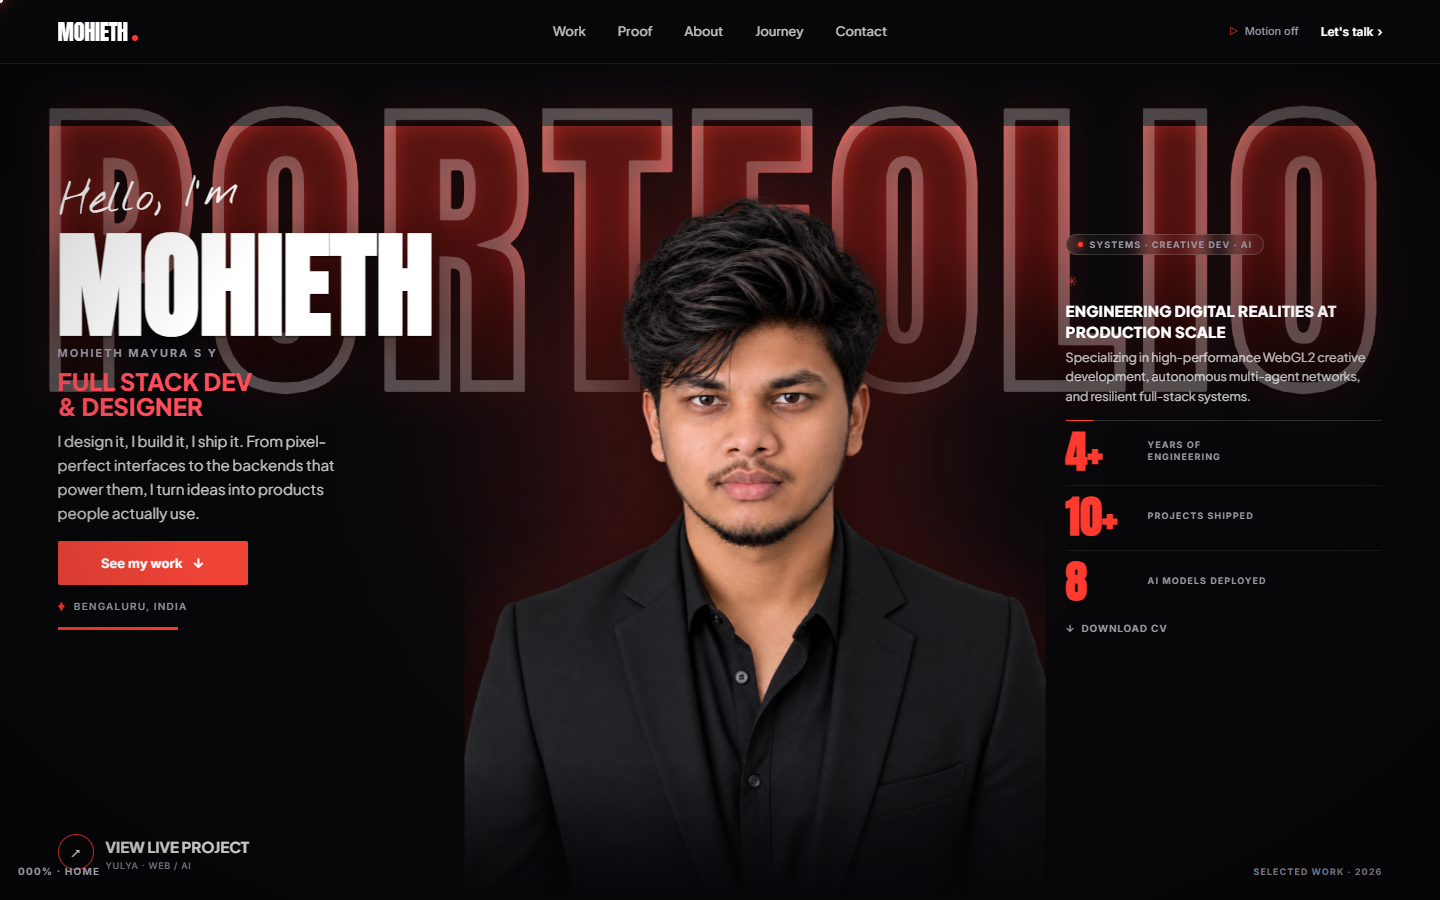
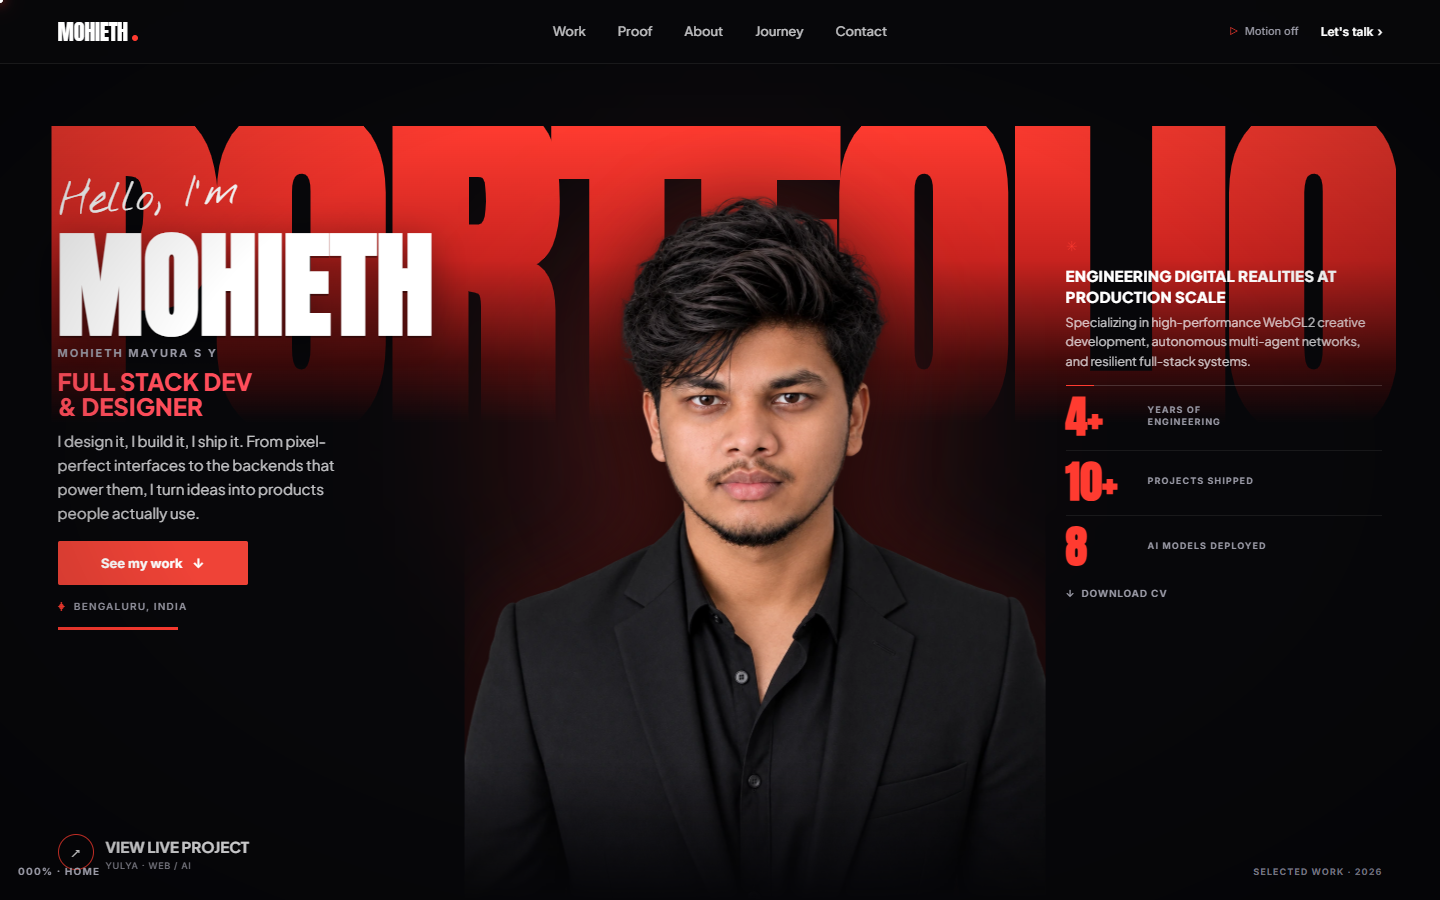
fix: restore classic gradient PORTFOLIO wordmark, remove hero badge, and fix swarm camera framing

Changed region(s): [[0.0312, 0.0933, 0.9688, 0.7156]]

diff --git a/js/swarm.js b/js/swarm.js
@@ -124,6 +124,13 @@
   const isOff = (v) => v.x > innerWidth + 4 || v.x + v.w < -4 || v.y > innerHeight + 260 || v.y + v.h < -260;
 
   const secName = (el) => { const s = el.closest('[data-swarm-section]'); return s ? s.dataset.swarmSection : 'page'; };
+  function getActiveSection() {
+    for (const [name, s] of S.sections.entries()) {
+      if (name === 'nav') continue;
+      if (s.built < s.total) return s;
+    }
+    return null;
+  }
   function collect() {
     const out = []; let i = 0;
     S.sections = new Map();
@@ -151,13 +158,14 @@
   }
   const remeasureFree = () => { for (const L of S.layers) if (!L.claimed) measure(L); };
 
-  /* next layer for an agent: reading order inside visible window, requiring >=3 cursors before advancing down */
+  /* next layer for an agent: prioritize active section and visible viewport, advancing section by section */
   function claim(a) {
     const L0 = S.layers, n = L0.length;
     while (S.firstFree < n && L0[S.firstFree].claimed) S.firstFree++;
     if (S.firstFree >= n) return null;
-    const lo = scrollY - 90, hi = scrollY + innerHeight + 60;
-    const focusLimit = scrollY + innerHeight * 0.74;
+    const curSec = getActiveSection();
+    const lo = scrollY - 90, hi = scrollY + innerHeight + 120;
+    const focusLimit = scrollY + innerHeight * 0.82;
 
     let best = null, bestScore = 1e12, seen = 0;
     let localBest = null, localScore = 1e12;
@@ -165,13 +173,15 @@
     for (let k = S.firstFree; k < n && seen < 44; k++) {
       const L = L0[k]; if (L.claimed) continue;
       const top = L.fixed ? scrollY + L.y : L.y;
-      if (top > hi) break; // never claim offscreen layers: wait for camera to arrive
+      if (top > hi && (!curSec || L.section !== curSec.name)) break;
       seen++;
       const v = vr(L);
       const dist = Math.hypot(v.x - a.x, v.y - a.y);
-      const score = (top - lo) * 1 + dist * 0.32 + L.k * 0.01;
+      const inSec = curSec && L.section === curSec.name;
+      // Strong preference for layers in the active section so the entire section builds together
+      const score = (top - lo) * 1 + dist * 0.32 + L.k * 0.01 - (inSec ? 600 : 0);
 
-      if (L.fixed || top <= focusLimit) {
+      if (L.fixed || top <= focusLimit || inSec) {
         if (score < localScore) {
           localScore = score;
           localBest = L;
@@ -183,7 +193,7 @@
       }
     }
 
-    // 1. If an unclaimed layer exists in the current viewport focus, claim it immediately (no waiting)
+    // 1. If an unclaimed layer exists in the current section or viewport focus, claim it immediately
     if (localBest) {
       if (S.downWaiting) S.downWaiting.delete(a.id);
       a.waitStart = 0;
@@ -192,38 +202,9 @@
       return localBest;
     }
 
-    // 2. If all layers in current focus are claimed, candidate layer is down below
+    // 2. If all layers in active section/focus are claimed, allow claiming forward
     if (best) {
-      const activeAbove = S.agents.filter((other) =>
-        other !== a &&
-        other.layer &&
-        !other.layer.done &&
-        !other.layer.fixed &&
-        other.layer.y <= focusLimit
-      );
-
-      // If other cursors are still working at the top / current view:
-      if (activeAbove.length > 0) {
-        if (!S.downWaiting) S.downWaiting = new Set();
-        S.downWaiting.add(a.id);
-
-        const needed = Math.min(3, activeAbove.length + S.downWaiting.size);
-        const starving = a.waitStart && (S.t - a.waitStart > 1600);
-        const gateOpen = S.downGateUntil && S.downGateUntil >= S.t;
-
-        if (S.downWaiting.size < needed && !starving && !gateOpen) {
-          // Wait for at least 3 cursors to finish before moving down together
-          if (!a.waitStart) a.waitStart = S.t;
-          return null;
-        }
-
-        // 3+ cursors ready to move down! Open the gate for companion cursors
-        S.downGateUntil = S.t + 1100;
-        S.downWaiting.delete(a.id);
-      } else {
-        if (S.downWaiting) S.downWaiting.delete(a.id);
-      }
-
+      if (S.downWaiting) S.downWaiting.delete(a.id);
       a.waitStart = 0;
       best.claimed = true;
       S.lastClaim = S.t;
@@ -581,26 +562,48 @@
     if (S.stop) return; let target = null;
     if (S.tourOverride) target = S.tourOverride();
     else if (S.tour && !S.userScrolled) {
-      // Coordinate camera with the advancing cluster of >=3 cursors
-      const active = S.agents.filter((a) => a.layer && !a.layer.fixed);
-      if (active.length >= 3) {
-        const ys = active.map((a) => a.layer.y).sort((p, q) => p - q);
-        const thirdY = ys[ys.length - 3];
-        target = thirdY <= innerHeight * 0.82 ? 0 : Math.max(0, thirdY - innerHeight * 0.34);
-      } else if (active.length > 0) {
-        const ys = active.map((a) => a.layer.y).sort((p, q) => p - q);
-        target = ys[0] <= innerHeight * 0.82 ? 0 : Math.max(0, ys[0] - innerHeight * 0.34);
+      const hero = S.sections.get('hero');
+      // 1. Keep camera strictly anchored at top while Hero is being built
+      if (hero && hero.built < hero.total) {
+        target = 0;
       } else {
-        let k = S.firstFree;
-        while (k < S.layers.length && S.layers[k].fixed) k++;
-        const L = S.layers[k] || S.layers[S.firstFree];
-        if (L) target = (L.fixed || L.y <= innerHeight * 0.82) ? 0 : Math.max(0, L.y - innerHeight * 0.34);
+        const curSec = getActiveSection();
+        if (!curSec || !curSec.el) {
+          target = document.documentElement.scrollHeight - innerHeight;
+        } else {
+          const r = curSec.el.getBoundingClientRect();
+          const secTop = r.top + scrollY;
+          const secH = curSec.el.offsetHeight || r.height;
+          const secBottom = secTop + secH;
+          const baseTarget = Math.max(0, secTop - 64);
+
+          // If the section fits within viewport, frame it cleanly from its top
+          if (secH <= innerHeight - 50) {
+            target = baseTarget;
+          } else {
+            // Tall section: check cluster position of active cursors in this section
+            const activeInSec = S.agents.filter((a) => a.layer && !a.layer.fixed && a.layer.section === curSec.name);
+            if (activeInSec.length >= 2) {
+              const ys = activeInSec.map((a) => a.layer.y).sort((p, q) => p - q);
+              const curY = ys[Math.min(ys.length - 1, 2)];
+              // Only scroll down when cursors pass 70% of viewport, keeping built content filling the screen
+              if (curY > baseTarget + innerHeight * 0.70) {
+                const maxSecScroll = Math.max(baseTarget, secBottom - innerHeight + 24);
+                target = clamp(curY - innerHeight * 0.70, baseTarget, maxSecScroll);
+              } else {
+                target = baseTarget;
+              }
+            } else {
+              target = baseTarget;
+            }
+          }
+        }
       }
     }
     if (target == null) return;
     const max = document.documentElement.scrollHeight - innerHeight; target = clamp(target, 0, Math.max(0, max));
     const d = target - scrollY; if (Math.abs(d) < 0.6) return;
-    const step = clamp(d * (1 - Math.exp(-dt / 520)), -0.85 * dt, 0.85 * dt); window.scrollTo(0, scrollY + step);
+    const step = clamp(d * (1 - Math.exp(-dt / 480)), -0.85 * dt, 0.85 * dt); window.scrollTo(0, scrollY + step);
   }
 
   function orbitStep(dt) {

diff --git a/css/layout.css b/css/layout.css
@@ -141,18 +141,16 @@
   left: 3vw;
   top: 14%;
   font-family: var(--f-display);
-  font-size: clamp(80px, 24vw, 360px);
+  font-size: clamp(75px, 21vw, 315px);
   text-transform: uppercase;
   line-height: .8;
-  letter-spacing: 0.05em;
+  letter-spacing: -0.02em;
   white-space: nowrap;
   z-index: var(--z-hero-word, 1);
   background: linear-gradient(180deg, #ff3b30 0%, #c8231f 45%, rgba(70, 10, 10, .85) 80%, rgba(10, 10, 10, 0) 100%);
   -webkit-background-clip: text;
   background-clip: text;
   color: transparent;
-  -webkit-text-stroke: 1.5px rgba(255, 255, 255, 0.28);
-  text-shadow: 0 4px 30px rgba(0, 0, 0, 0.65), 0 0 35px rgba(239, 67, 55, 0.2);
   user-select: none;
   pointer-events: none;
 }
@@ -377,30 +375,6 @@
   flex-direction: column;
   gap: 14px;
   z-index: var(--z-hero-text, 3);
-}
-.hero__badge {
-  display: inline-flex;
-  align-items: center;
-  padding: 5px 11px;
-  border-radius: 999px;
-  background: rgba(255, 255, 255, 0.04);
-  border: 1px solid rgba(255, 255, 255, 0.14);
-  font: 700 9px/1 var(--f-ui);
-  letter-spacing: .12em;
-  color: var(--muted);
-  width: fit-content;
-  backdrop-filter: blur(8px);
-}
-.hero__badge::before {
-  content: '';
-  display: inline-block;
-  width: 5px;
-  height: 5px;
-  border-radius: 50%;
-  background: var(--red);
-  box-shadow: 0 0 6px var(--red);
-  margin-right: 7px;
-  flex-shrink: 0;
 }
 .hero__lead {
   display: flex;
@@ -1408,14 +1382,6 @@ img + .fakeui {
 .hero__intro:hover, .about__text:hover, .contact__text:hover, .hero__subdesc:hover, .raw__text:hover {
   color: #f3f4f6;
   transform: translateX(3px);
-}
-.hero__badge {
-  transition: transform 0.25s ease, border-color 0.25s ease, background 0.25s ease;
-}
-.hero__badge:hover {
-  transform: translateY(-2px);
-  border-color: rgba(255, 59, 48, 0.4);
-  background: rgba(255, 59, 48, 0.08);
 }
 .hero__cv {
   transition: transform 0.25s ease, color 0.25s ease;

diff --git a/index.html b/index.html
@@ -104,7 +104,6 @@
   </a>
 
   <div class="hero__right">
-    <div class="hero__badge" data-layer="chip">SYSTEMS · CREATIVE DEV · AI</div>
     <div class="hero__lead">
       <span class="hero__star" data-layer="icon" aria-hidden="true">✳</span>
       <h3 class="hero__statement" data-layer="text">ENGINEERING DIGITAL REALITIES AT PRODUCTION SCALE</h3>
